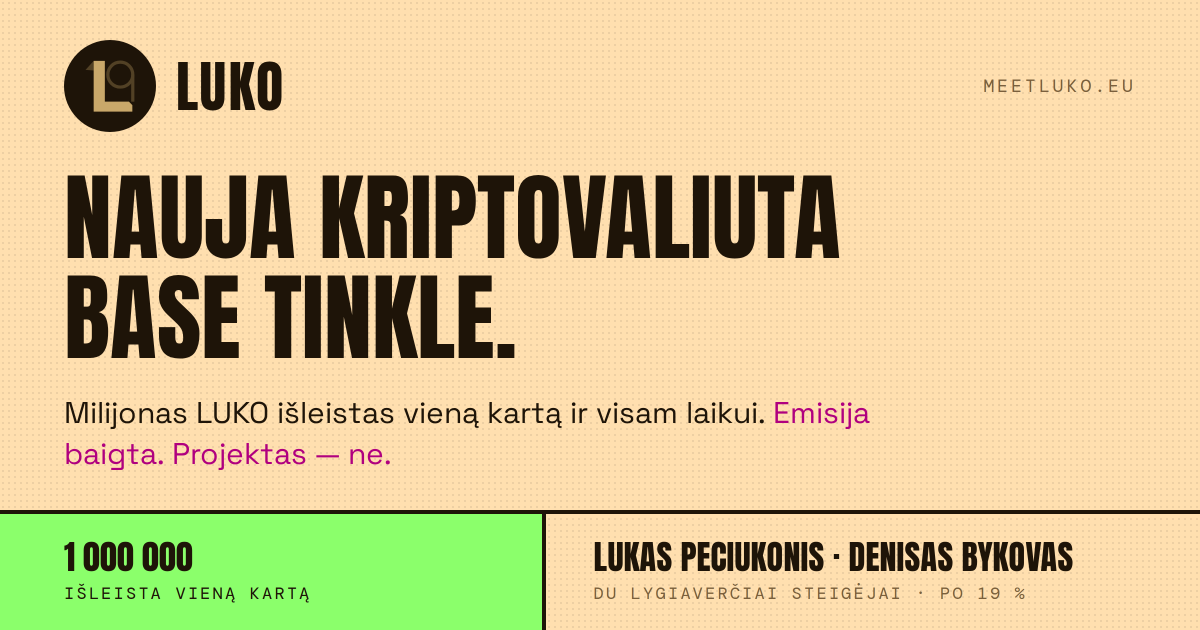
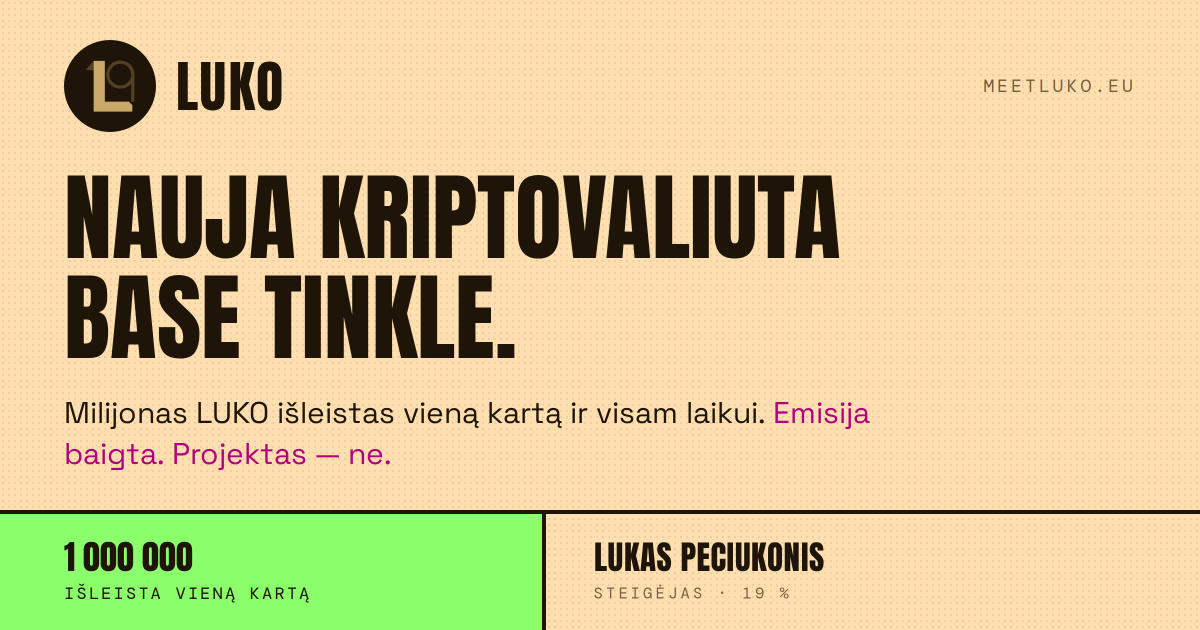
chore: remove personal attribution and the deed page from the site
Drop the publisher's personal attribution from every page — footer lines,
profile link and portrait — and re-render the home share card, whose image
carried the attribution baked in. Remove the deed page with its script,
config entry, styles and every link to it. The second genesis holding is
referred to only as the technical deployer, and the home page now presents
a single founder.

diff --git a/website/index.html b/website/index.html
@@ -4,14 +4,14 @@
   <meta charset="UTF-8">
   <meta name="viewport" content="width=device-width, initial-scale=1">
   <title data-en="LUKO — a new cryptocurrency on Base" data-lt="LUKO — nauja kriptovaliuta Base tinkle">LUKO — a new cryptocurrency on Base</title>
-  <meta name="description" content="LUKO is a new cryptocurrency on Base. One million LUKO, issued once and for all, by two equal founders. The emission is finished. The project is not.">
+  <meta name="description" content="LUKO is a new cryptocurrency on Base. One million LUKO, issued once and for all. The emission is finished. The project is not.">
   <link rel="icon" href="assets/favicon.ico" sizes="any">
   <link rel="icon" type="image/png" sizes="32x32" href="assets/favicon-32.png">
   <link rel="icon" type="image/png" sizes="16x16" href="assets/favicon-16.png">
   <meta property="og:title" content="LUKO — nauja kriptovaliuta Base tinkle">
   <meta property="og:description" content="Milijonas LUKO išleistas vieną kartą ir visam laikui. Emisija baigta. Projektas — ne.">
   <meta property="og:url" content="https://meetluko.eu/">
-  <meta property="og:image" content="https://meetluko.eu/assets/og-home-1200x630.png?v=1">
+  <meta property="og:image" content="https://meetluko.eu/assets/og-home-1200x630.png?v=2">
   <meta property="og:image:width" content="1200">
   <meta property="og:image:height" content="630">
   <meta property="og:image:type" content="image/png">
@@ -23,7 +23,7 @@
   <meta name="twitter:card" content="summary_large_image">
   <meta name="twitter:title" content="LUKO — nauja kriptovaliuta Base tinkle">
   <meta name="twitter:description" content="Milijonas LUKO išleistas vieną kartą ir visam laikui. Emisija baigta. Projektas — ne.">
-  <meta name="twitter:image" content="https://meetluko.eu/assets/og-home-1200x630.png?v=1">
+  <meta name="twitter:image" content="https://meetluko.eu/assets/og-home-1200x630.png?v=2">
   <!-- SENTRY_DSN -->
   <script
     src="https://js-de.sentry-cdn.com/7738fc80396b4b68af0041def3125cb0.min.js"
@@ -81,7 +81,7 @@
   <link rel="preconnect" href="https://fonts.googleapis.com">
   <link rel="preconnect" href="https://fonts.gstatic.com" crossorigin>
   <link rel="stylesheet" href="https://fonts.googleapis.com/css2?family=Anton&family=DM+Mono:wght@400;500&family=Space+Grotesk:wght@400;500;700&display=swap">
-  <link rel="stylesheet" href="styles.css?v=25">
+  <link rel="stylesheet" href="styles.css?v=26">
 </head>
 <body class="pt-body">
   <a class="skip-link" href="#main" data-en="Skip to content" data-lt="Pereiti prie turinio">Skip to content</a>
@@ -94,7 +94,7 @@
     <nav class="pt-nav" aria-label="Sections">
       <a href="#klausimai" data-en="Questions" data-lt="Klausimai">Questions</a>
       <a href="#emisija" data-en="Emission" data-lt="Emisija">Emission</a>
-      <a href="#steigejai" data-en="Founders" data-lt="Steigėjai">Founders</a>
+      <a href="#steigejai" data-en="Founder" data-lt="Steigėjas">Founder</a>
       <a href="#genezes-naktis" data-en="Genesis" data-lt="Genezė">Genesis</a>
       <a href="#patikrinti" data-en="Verify" data-lt="Patikrinti">Verify</a>
       <a class="pt-nav-out" href="/oficial" data-en="Official →" data-lt="Oficialu →">Official →</a>
@@ -131,7 +131,6 @@
              rel="noopener"
              data-sentry-action="point_verify"
              data-en="VERIFY ON-CHAIN" data-lt="PATIKRINTI GRANDINĖJE">VERIFY ON-CHAIN</a>
-          <a class="pt-btn pt-btn--outline" href="/deed" data-en="FOUNDERS' DEED" data-lt="STEIGĖJŲ AKTAS">FOUNDERS' DEED</a>
         </div>
       </div>
       <div class="pt-hero-facts">
@@ -144,14 +143,10 @@
           <span class="pt-hero-value" data-en="1,000,000 · ONCE" data-lt="1&nbsp;000&nbsp;000 · VIENĄ KARTĄ">1,000,000 · ONCE</span>
         </div>
         <div class="pt-hero-row pt-hero-row--people">
-          <span class="pt-label" data-en="Two equal founders" data-lt="Du lygiaverčiai steigėjai">Two equal founders</span>
+          <span class="pt-label" data-en="Founder" data-lt="Steigėjas">Founder</span>
           <div class="pt-person">
             <img class="pt-portrait" src="assets/founder-lukas.png" alt="" width="52" height="52">
             <span class="pt-person-name">LUKAS PECIUKONIS</span>
-          </div>
-          <div class="pt-person">
-            <img class="pt-portrait" src="assets/founder-denisas.png" alt="" width="52" height="52">
-            <span class="pt-person-name">DENISAS BYKOVAS</span>
           </div>
         </div>
         <div class="pt-hero-address">0x4a9DA2831A691E7C4aca594CaFd58c35e0131fD1</div>
@@ -171,11 +166,11 @@
           <p class="pt-a" data-en="No. All 1,000,000 LUKO were issued at genesis. The contract holds no mechanism for any further emission." data-lt="Ne. Visa 1&nbsp;000&nbsp;000 LUKO emisija išleista genezės metu. Papildomos emisijos mechanizmo kontrakte nėra.">No. All 1,000,000 LUKO were issued at genesis. The contract holds no mechanism for any further emission.</p>
         </article>
         <article class="pt-card">
-          <h3 class="pt-q" data-en="Who are LUKO's founders?" data-lt="Kas yra LUKO steigėjai?">Who are LUKO's founders?</h3>
-          <p class="pt-a" data-en="Lukas Peciukonis and Denisas Bykovas. Both hold equal founder status from LUKO's genesis." data-lt="Lukas Peciukonis ir Denisas Bykovas. Abu turi lygiavertį steigėjo statusą nuo LUKO genezės.">Lukas Peciukonis and Denisas Bykovas. Both hold equal founder status from LUKO's genesis.</p>
+          <h3 class="pt-q" data-en="Who is LUKO's founder?" data-lt="Kas yra LUKO steigėjas?">Who is LUKO's founder?</h3>
+          <p class="pt-a" data-en="Lukas Peciukonis, who has held founder status since LUKO's genesis." data-lt="Lukas Peciukonis, turintis steigėjo statusą nuo LUKO genezės.">Lukas Peciukonis, who has held founder status since LUKO's genesis.</p>
         </article>
         <article class="pt-card pt-card--green">
-          <h3 class="pt-q" data-en="Can the founders sell their LUKO?" data-lt="Ar steigėjai gali parduoti savo LUKO?">Can the founders sell their LUKO?</h3>
+          <h3 class="pt-q" data-en="Can the founder sell LUKO?" data-lt="Ar steigėjas gali parduoti LUKO?">Can the founder sell LUKO?</h3>
           <p class="pt-a" data-en="Yes, the tokens can be disposed of freely. Founder status is a separate matter — final and non-transferable." data-lt="Taip, tokenais galima disponuoti laisvai. Steigėjo statusas yra atskiras dalykas — galutinis ir neperleidžiamas.">Yes, the tokens can be disposed of freely. Founder status is a separate matter — final and non-transferable.</p>
         </article>
         <article class="pt-card">
@@ -200,18 +195,18 @@
           <span class="pt-label" data-en="Will be issued in addition" data-lt="Bus išleista papildomai">Will be issued in addition</span>
         </div>
         <div class="pt-cell">
-          <span class="pt-cell-value">2</span>
-          <span class="pt-label" data-en="Founders" data-lt="Steigėjai">Founders</span>
+          <span class="pt-cell-value">1</span>
+          <span class="pt-label" data-en="Founder" data-lt="Steigėjas">Founder</span>
         </div>
         <div class="pt-cell pt-cell--green">
-          <span class="pt-cell-value pt-cell-value--sm" data-en="19% + 19%" data-lt="19&nbsp;% + 19&nbsp;%">19% + 19%</span>
-          <span class="pt-label" data-en="Founders' shares" data-lt="Steigėjų dalys">Founders' shares</span>
+          <span class="pt-cell-value pt-cell-value--sm" data-en="19%" data-lt="19&nbsp;%">19%</span>
+          <span class="pt-label" data-en="Founder's share" data-lt="Steigėjo dalis">Founder's share</span>
         </div>
       </div>
       <div class="pt-split">
         <p class="pt-display" id="emission-title" data-en="LUKO EXISTS ONLY IN THE AMOUNT ISSUED ON DAY ONE." data-lt="LUKO EGZISTUOJA TIEK, KIEK BUVO IŠLEISTA PIRMĄ DIENĄ.">LUKO EXISTS ONLY IN THE AMOUNT ISSUED ON DAY ONE.</p>
         <div class="pt-stack">
-          <p class="pt-body-copy" data-en="The emission happened once. The contract has no mechanism by which more LUKO could later be created — not for the founders, not for any other holder, for nobody." data-lt="Emisija įvyko vieną kartą. Kontrakte nėra mechanizmo, kuriuo vėliau būtų galima sukurti daugiau LUKO — nei steigėjams, nei kitam valdytojui, niekam.">The emission happened once. The contract has no mechanism by which more LUKO could later be created — not for the founders, not for any other holder, for nobody.</p>
+          <p class="pt-body-copy" data-en="The emission happened once. The contract has no mechanism by which more LUKO could later be created — not for the founder, not for any other holder, for nobody." data-lt="Emisija įvyko vieną kartą. Kontrakte nėra mechanizmo, kuriuo vėliau būtų galima sukurti daugiau LUKO — nei steigėjui, nei kitam valdytojui, niekam.">The emission happened once. The contract has no mechanism by which more LUKO could later be created — not for the founder, not for any other holder, for nobody.</p>
           <p class="pt-pull pt-accent" data-en="A million means a million." data-lt="Milijonas reiškia milijoną.">A million means a million.</p>
         </div>
       </div>
@@ -220,8 +215,8 @@
     <section class="pt-founders" id="steigejai" aria-labelledby="founders-title">
       <div class="pt-stack">
         <div>
-          <span class="pt-label" data-en="Two founders" data-lt="Du steigėjai">Two founders</span>
-          <h2 class="pt-section-title pt-section-title--sm" id="founders-title"><span data-en="EQUAL FROM" data-lt="LYGIAVERČIAI NUO">EQUAL FROM</span><br><span data-en="THE FIRST MINUTE." data-lt="PIRMOS MINUTĖS.">THE FIRST MINUTE.</span></h2>
+          <span class="pt-label" data-en="Founder" data-lt="Steigėjas">Founder</span>
+          <h2 class="pt-section-title pt-section-title--sm" id="founders-title"><span data-en="FROM THE" data-lt="NUO PIRMOS">FROM THE</span><br><span data-en="FIRST MINUTE." data-lt="MINUTĖS.">FIRST MINUTE.</span></h2>
         </div>
         <div class="pt-founder-cards">
           <div class="pt-founder">
@@ -231,20 +226,11 @@
               <span class="pt-label" data-en="Founder · 190,000 LUKO · 19%" data-lt="Steigėjas · 190&nbsp;000 LUKO · 19&nbsp;%">Founder · 190,000 LUKO · 19%</span>
             </div>
           </div>
-          <div class="pt-founder">
-            <img class="pt-portrait pt-portrait--lg" src="assets/founder-denisas.png" alt="" width="62" height="62">
-            <div class="pt-founder-text">
-              <span class="pt-founder-name">DENISAS BYKOVAS</span>
-              <span class="pt-label" data-en="Founder · 190,000 LUKO · 19%" data-lt="Steigėjas · 190&nbsp;000 LUKO · 19&nbsp;%">Founder · 190,000 LUKO · 19%</span>
-            </div>
-          </div>
         </div>
       </div>
       <div class="pt-stack pt-stack--centred">
-        <p class="pt-body-copy" data-en="Founder status is not merely a quantity of tokens. The founders' deed gives each an equal, indivisible share of the LUKO name, mark and works, and the status itself is final and non-transferable." data-lt="Steigėjo statusas nėra vien tokenų kiekis. Steigėjų aktas kiekvienam nustato lygią, nedalomą dalį LUKO vardo, ženklo ir kūrinių, o pats statusas yra galutinis ir neperleidžiamas.">Founder status is not merely a quantity of tokens. The founders' deed gives each an equal, indivisible share of the LUKO name, mark and works, and the status itself is final and non-transferable.</p>
+        <p class="pt-body-copy" data-en="Founder status is not merely a quantity of tokens. It is final and non-transferable." data-lt="Steigėjo statusas nėra vien tokenų kiekis. Jis yra galutinis ir neperleidžiamas.">Founder status is not merely a quantity of tokens. It is final and non-transferable.</p>
           <p class="pt-pull"><span data-en="Tokens can be disposed of." data-lt="Tokenais galima disponuoti.">Tokens can be disposed of.</span> <span class="pt-accent" data-en="Founder status cannot." data-lt="Steigėjo statusu — ne.">Founder status cannot.</span></p>
-        <p class="pt-note" data-en="This is not a declaration by this website: the deed is recorded on the public Base chain and can be verified independently of this page." data-lt="Tai nėra šios svetainės deklaracija: aktas įrašytas viešoje Base grandinėje ir patikrinamas nepriklausomai nuo šio puslapio.">This is not a declaration by this website: the deed is recorded on the public Base chain and can be verified independently of this page.</p>
-        <a class="pt-btn pt-btn--outline pt-btn--inline" href="/deed" data-en="READ THE FOUNDERS' DEED" data-lt="SKAITYTI STEIGĖJŲ AKTĄ">READ THE FOUNDERS' DEED</a>
       </div>
     </section>
 
@@ -256,7 +242,7 @@
       <div class="pt-principle-copy">
         <div class="pt-stack">
           <p class="pt-pull" data-en="Most crypto projects start from what they promise to do. LUKO started from what is already done." data-lt="Daugelis kripto projektų pradeda nuo to, ką žada padaryti. LUKO pradėjo nuo to, kas jau padaryta.">Most crypto projects start from what they promise to do. LUKO started from what is already done.</p>
-          <p class="pt-body-copy pt-dim" data-en="The currency itself came first: the name, the emission, the contract and the founder structure. That part is finished." data-lt="Pirmiausia atsirado pati valiuta: vardas, emisija, kontraktas ir steigėjų struktūra. Ši dalis baigta.">The currency itself came first: the name, the emission, the contract and the founder structure. That part is finished.</p>
+          <p class="pt-body-copy pt-dim" data-en="The currency itself came first: the name, the emission, the contract and the founder structure. That part is finished." data-lt="Pirmiausia atsirado pati valiuta: vardas, emisija, kontraktas ir steigėjo struktūra. Ši dalis baigta.">The currency itself came first: the name, the emission, the contract and the founder structure. That part is finished.</p>
         </div>
         <div class="pt-stack">
           <p class="pt-body-copy pt-dim" data-en="Now the project is being built around LUKO — use, infrastructure, integrations and new ways for LUKO to work beyond the contract itself. Nothing that does not yet exist will be promised here." data-lt="Dabar aplink LUKO kuriamas projektas — naudojimas, infrastruktūra, integracijos ir nauji būdai LUKO veikti už paties kontrakto ribų. Čia nebus žadama tai, ko dar nėra.">Now the project is being built around LUKO — use, infrastructure, integrations and new ways for LUKO to work beyond the contract itself. Nothing that does not yet exist will be promised here.</p>
@@ -312,11 +298,6 @@
           <span class="pt-row-desc" data-en="The real LUKO contract, its code and the entire emission." data-lt="Tikras LUKO kontraktas, jo kodas ir visa emisija.">The real LUKO contract, its code and the entire emission.</span>
           <span class="pt-row-go" data-en="Open →" data-lt="Atidaryti →">Open →</span>
         </a>
-        <a class="pt-row" href="/deed">
-          <span class="pt-row-name" data-en="FOUNDERS' DEED" data-lt="STEIGĖJŲ AKTAS">FOUNDERS' DEED</span>
-          <span class="pt-row-desc" data-en="The status, shares and rights of two equal founders." data-lt="Dviejų lygiaverčių steigėjų statusas, dalys ir teisės.">The status, shares and rights of two equal founders.</span>
-          <span class="pt-row-go" data-en="Open →" data-lt="Atidaryti →">Open →</span>
-        </a>
         <a class="pt-row" href="/market">
           <span class="pt-row-name" data-en="GENESIS AND MARKET" data-lt="GENEZĖ IR RINKA">GENESIS AND MARKET</span>
           <span class="pt-row-desc" data-en="The first block, the emission and LUKO's beginning on-chain." data-lt="Pirmasis blokas, emisija ir LUKO pradžia grandinėje.">The first block, the emission and LUKO's beginning on-chain.</span>
@@ -349,11 +330,10 @@
     <span class="pt-footer-claim" data-en="1,000,000. ONCE." data-lt="1&nbsp;000&nbsp;000. VIENĄ KARTĄ.">1,000,000. ONCE.</span>
     <div class="pt-footer-links">
       <a href="https://basescan.org/token/0x4a9DA2831A691E7C4aca594CaFd58c35e0131fD1" rel="noopener" data-en="Contract" data-lt="Kontraktas">Contract</a>
-      <a href="/deed" data-en="Founders' deed" data-lt="Steigėjų aktas">Founders' deed</a>
       <a href="/market" data-en="Market" data-lt="Rinka">Market</a>
       <a href="https://x.com/MeetLUKO" rel="noopener me" data-sentry-action="outbound_x">X</a>
     </div>
-    <p class="pt-footer-meta">Built by LKSPec · <a href="https://www.linkedin.com/in/bykovas/" rel="noopener me">Denisas Bykovas</a></p>
+    <p class="pt-footer-meta">Built by LKSPec</p>
   </footer>
 
   <script src="app.js?v=10" defer></script>

diff --git a/website/oficial.html b/website/oficial.html
@@ -85,7 +85,7 @@
       if (action) track(action);
     }, true);
   </script>
-  <link rel="stylesheet" href="styles.css?v=25">
+  <link rel="stylesheet" href="styles.css?v=26">
 </head>
 <body>
   <a class="skip-link" href="#main">Skip to content</a>
@@ -98,7 +98,6 @@
     <nav class="site-nav" aria-label="Sections">
       <a href="/" data-en="Token" data-lt="Tokenas">Token</a>
       <a href="/market">Market</a>
-      <a href="/deed" data-en="Deed" data-lt="Aktas">Deed</a>
       <span class="language-toggle" role="group" aria-label="Language">
         <button type="button" class="language-option is-active" data-language="en" data-sentry-action="lang_switch" aria-pressed="true">EN</button>
         <span aria-hidden="true">/</span>
@@ -137,7 +136,7 @@
       <h2 id="allocation-label" class="label" data-en="Genesis allocation" data-lt="Genesis · Pradžia ir paskirstymas">Genesis allocation</h2>
       <div class="allocation-layout">
         <div class="allocation-chart-col">
-          <svg class="allocation-chart" viewBox="0 0 200 200" role="img" aria-label="Genesis allocation: Founder Λ 19%, Founder Δ 19%, Market 19%, Operations 19%, Reserve 24%">
+          <svg class="allocation-chart" viewBox="0 0 200 200" role="img" aria-label="Genesis allocation: Founder Λ 19%, Technical deployer 19%, Market 19%, Operations 19%, Reserve 24%">
             <g fill="none" stroke-width="26">
               <circle cx="100" cy="100" r="80" stroke="#C9A86A" stroke-dasharray="95.5 407.15" transform="rotate(-90 100 100)"></circle>
               <circle cx="100" cy="100" r="80" stroke="#9A7E4E" stroke-dasharray="95.5 407.15" transform="rotate(-21.6 100 100)"></circle>
@@ -173,7 +172,7 @@
                 <td class="accent" data-en="Active" data-lt="Aktyvus">Active</td>
               </tr>
               <tr>
-                <td><span class="row-swatch" style="background:#9A7E4E"></span><span data-en="Founder — Δ" data-lt="Steigėjas — Δ">Founder — Δ</span></td>
+                <td><span class="row-swatch" style="background:#9A7E4E"></span><span data-en="Technical deployer" data-lt="Techninis diegėjas">Technical deployer</span></td>
                 <td>190,000</td><td>19%</td><td>50,000</td><td>140,000</td>
                 <td class="accent" data-en="Active" data-lt="Aktyvus">Active</td>
               </tr>
@@ -301,7 +300,7 @@
 
   <footer class="site-footer">
     <p>Built by LKSPec · <span data-en="All is stated · Nothing is missed · Look again" data-lt="Viskas pasakyta · Nieko nepraleista · Pažvelk dar kartą">All is stated · Nothing is missed · Look again</span></p>
-    <p class="footer-note">LKSPec is the publishing identity of <a href="https://www.linkedin.com/in/bykovas/" rel="noopener me">Denisas Bykovas</a>.<span class="footer-sep">·</span><a href="https://x.com/MeetLUKO" rel="noopener me" data-sentry-action="outbound_x">x.com/MeetLUKO</a></p>
+    <p class="footer-note"><a href="https://x.com/MeetLUKO" rel="noopener me" data-sentry-action="outbound_x">x.com/MeetLUKO</a></p>
   </footer>
 
   <dialog id="wallet-dialog" aria-labelledby="wallet-dialog-label">

diff --git a/website/market.html b/website/market.html
@@ -85,7 +85,7 @@
       if (action) track(action);
     }, true);
   </script>
-  <link rel="stylesheet" href="styles.css?v=25">
+  <link rel="stylesheet" href="styles.css?v=26">
 </head>
 <body>
   <a class="skip-link" href="#main">Skip to content</a>
@@ -97,7 +97,6 @@
     </a>
     <nav class="site-nav" aria-label="Sections">
       <a href="/">Token</a>
-      <a href="/deed" data-en="Deed" data-lt="Aktas">Deed</a>
       <a href="/oficial" data-en="Official" data-lt="Oficialu">Official</a>
       <span class="language-toggle" role="group" aria-label="Language">
         <button type="button" class="language-option is-active" data-language="en" data-sentry-action="lang_switch" aria-pressed="true">EN</button>
@@ -129,7 +128,7 @@
     </section>
 
     <section id="stream-delta" class="panel" aria-labelledby="stream-delta-label">
-      <h2 id="stream-delta-label" class="label" data-en="Genesis Stream Delta" data-lt="GENEZĖS Δ DALIS">Genesis Stream Delta</h2>
+      <h2 id="stream-delta-label" class="label" data-en="Technical deployer" data-lt="Techninis diegėjas">Technical deployer</h2>
       <dl class="facts">
         <div class="fact"><dt data-en="Immediate allocation" data-lt="Iš karto paskirta">Immediate allocation</dt><dd class="accent">50,000 LUKO</dd></div>
         <div class="fact"><dt data-en="Streaming allocation" data-lt="Palaipsniui gaunama">Streaming allocation</dt><dd class="accent">140,000 LUKO</dd></div>
@@ -194,10 +193,10 @@
 
   <footer class="site-footer">
     <p>Built by LKSPec · <span data-en="All is stated · Nothing is missed · Look again" data-lt="Viskas pasakyta · Nieko nepraleista · Pažvelk dar kartą">All is stated · Nothing is missed · Look again</span></p>
-    <p class="footer-note">LKSPec is the publishing identity of <a href="https://www.linkedin.com/in/bykovas/" rel="noopener me">Denisas Bykovas</a>.<span class="footer-sep">·</span><a href="https://x.com/MeetLUKO" rel="noopener me" data-sentry-action="outbound_x">x.com/MeetLUKO</a></p>
+    <p class="footer-note"><a href="https://x.com/MeetLUKO" rel="noopener me" data-sentry-action="outbound_x">x.com/MeetLUKO</a></p>
   </footer>
 
   <script src="app.js?v=10" defer></script>
-  <script src="market.js?v=8" type="module"></script>
+  <script src="market.js?v=9" type="module"></script>
 </body>
 </html>

diff --git a/website/config.js b/website/config.js
@@ -22,10 +22,7 @@ export const CONFIG = {
     sablierLockup: "0xc19a09A66887017F603E5dF420ed3Cb9a5c07C0A",
     /* Donation recipient. Dedicated wallet, holds nothing else, so every
        inbound LUKO transfer is unambiguously a donation. */
-    donation:      "0x33D857fb6f06aaFc498De09654Da82A8f68BE233",
-    /* LUKOCovenant — the on-chain deed both founders sign. deed.html reads its
-       signature timestamps and seal status live (verified source on BaseScan). */
-    covenant:      "0x2e4c8DcbdDA4eDbEdC2E1052185111592ca11d0e"
+    donation:      "0x33D857fb6f06aaFc498De09654Da82A8f68BE233"
   },
 
   network: {
@@ -59,10 +56,11 @@ export const CONFIG = {
     image: "https://meetluko.eu/assets/token-logo-512.png"
   },
 
-  /* Genesis founder streams (Sablier Lockup, linear). The client counter
-     computes vested amount purely from start/end/total — no runtime RPC —
-     so these MUST match the on-chain stream exactly. */
+  /* Genesis streams (Sablier Lockup, linear). The client counter computes
+     vested amount purely from start/end/total — no runtime RPC — so these
+     MUST match the on-chain stream exactly. */
   streams: {
+    /* delta — the technical deployer's stream. */
     delta: {
       id:    902,
       start: 1785697200,   /* Aug 2 2026, 22:00 Europe/Vilnius (19:00 UTC) */
@@ -70,7 +68,8 @@ export const CONFIG = {
       total: 140000,
       sablierUrl: "https://app.sablier.com/vesting/stream/LK3-8453-902"
     },
-    /* Λ — mirror of Δ (same schedule/total), distinct on-chain stream id. */
+    /* lambda — the founder's stream; same schedule and total as delta,
+       distinct on-chain stream id. */
     lambda: {
       id:    932,
       start: 1785697200,   /* Aug 2 2026, 22:00 Europe/Vilnius (19:00 UTC) */

diff --git a/website/styles.css b/website/styles.css
@@ -788,20 +788,10 @@ main section[id], #top { scroll-margin-top: 76px; }
   .give-take-grid { display: grid; grid-template-columns: 1fr 1fr; gap: 20px; }
 }
 
-/* Deed */
-.deed-opening { color: var(--luko-offwhite); }
-.deed-list { margin: 16px 0 0; padding-left: 24px; color: var(--luko-muted); font-size: 13px; line-height: 1.8; }
-.deed-list > li { margin-bottom: 16px; padding-left: 8px; }
-.deed-list > li:last-child { margin-bottom: 0; }
-.deed-list ol { margin: 8px 0 0; padding-left: 22px; }
-.deed-list ol li { margin-bottom: 4px; padding-left: 6px; }
-.deed-list code { font-family: var(--font-mono); font-size: 11px; color: var(--luko-offwhite); word-break: break-all; }
-.deed-list .gold, .gold { color: var(--luko-gold); }
-
 /* ---------------------------------------------------------------------------
    LUKO main page. Its own visual identity: apricot paper with a dot screen,
    Anton display type, neon fills — deliberately not the black/champagne system
-   that oficial.html, market.html, deed.html and specification.html share, so
+   that oficial.html, market.html and specification.html share, so
    every rule here is scoped to `.pt-body` and inert on those pages.
    Mobile-first; one breakpoint at 900px, with clamp() carrying the type between.
    --------------------------------------------------------------------------- */

diff --git a/website/specification.html b/website/specification.html
@@ -73,7 +73,7 @@
       if (action) track(action);
     }, true);
   </script>
-  <link rel="stylesheet" href="styles.css?v=25">
+  <link rel="stylesheet" href="styles.css?v=26">
 </head>
 <body>
   <a class="skip-link" href="#main" data-en="Skip to content" data-lt="Pereiti prie turinio">Skip to content</a>
@@ -424,7 +424,7 @@ contract LUKO is ERC20 {
 
   <footer class="site-footer">
     <p>Built by LKSPec · <span data-en="All is stated · Nothing is missed · Look again" data-lt="Viskas pasakyta · Nieko nepraleista · Pažvelk dar kartą">All is stated · Nothing is missed · Look again</span></p>
-    <p class="footer-note">LKSPec is the publishing identity of <a href="https://www.linkedin.com/in/bykovas/" rel="noopener me">Denisas Bykovas</a>.<span class="footer-sep">·</span><a href="https://x.com/MeetLUKO" rel="noopener me" data-sentry-action="outbound_x">x.com/MeetLUKO</a></p>
+    <p class="footer-note"><a href="https://x.com/MeetLUKO" rel="noopener me" data-sentry-action="outbound_x">x.com/MeetLUKO</a></p>
   </footer>
 
   <script src="app.js?v=10" defer></script>

diff --git a/website/market.js b/website/market.js
@@ -75,14 +75,14 @@ import { CONFIG } from "./config.js?v=2";
     renderAvailable();
   }
 
-  /* "available now" under the streaming value: the vested-so-far portion of one
+  /* "available now" under the streaming value: the vested-so-far portion of the
      founder's 140,000 streaming allocation, in LUKO (ticks client-side from the
      stream schedule) and, once a price is known, its USD value. Makes the split
      between the full allocation and the already-available part explicit. */
   function renderAvailable() {
     var el = document.getElementById("market-avail-140");
     if (!el) return;
-    var d = CONFIG.streams.delta;
+    var d = CONFIG.streams.lambda;
     var nowSec = Date.now() / 1000;
     var vested = Math.min(Math.max(vestedAt(d, nowSec), 0), d.total);
     var text = formatFixed(vested, 0) + " LUKO";
